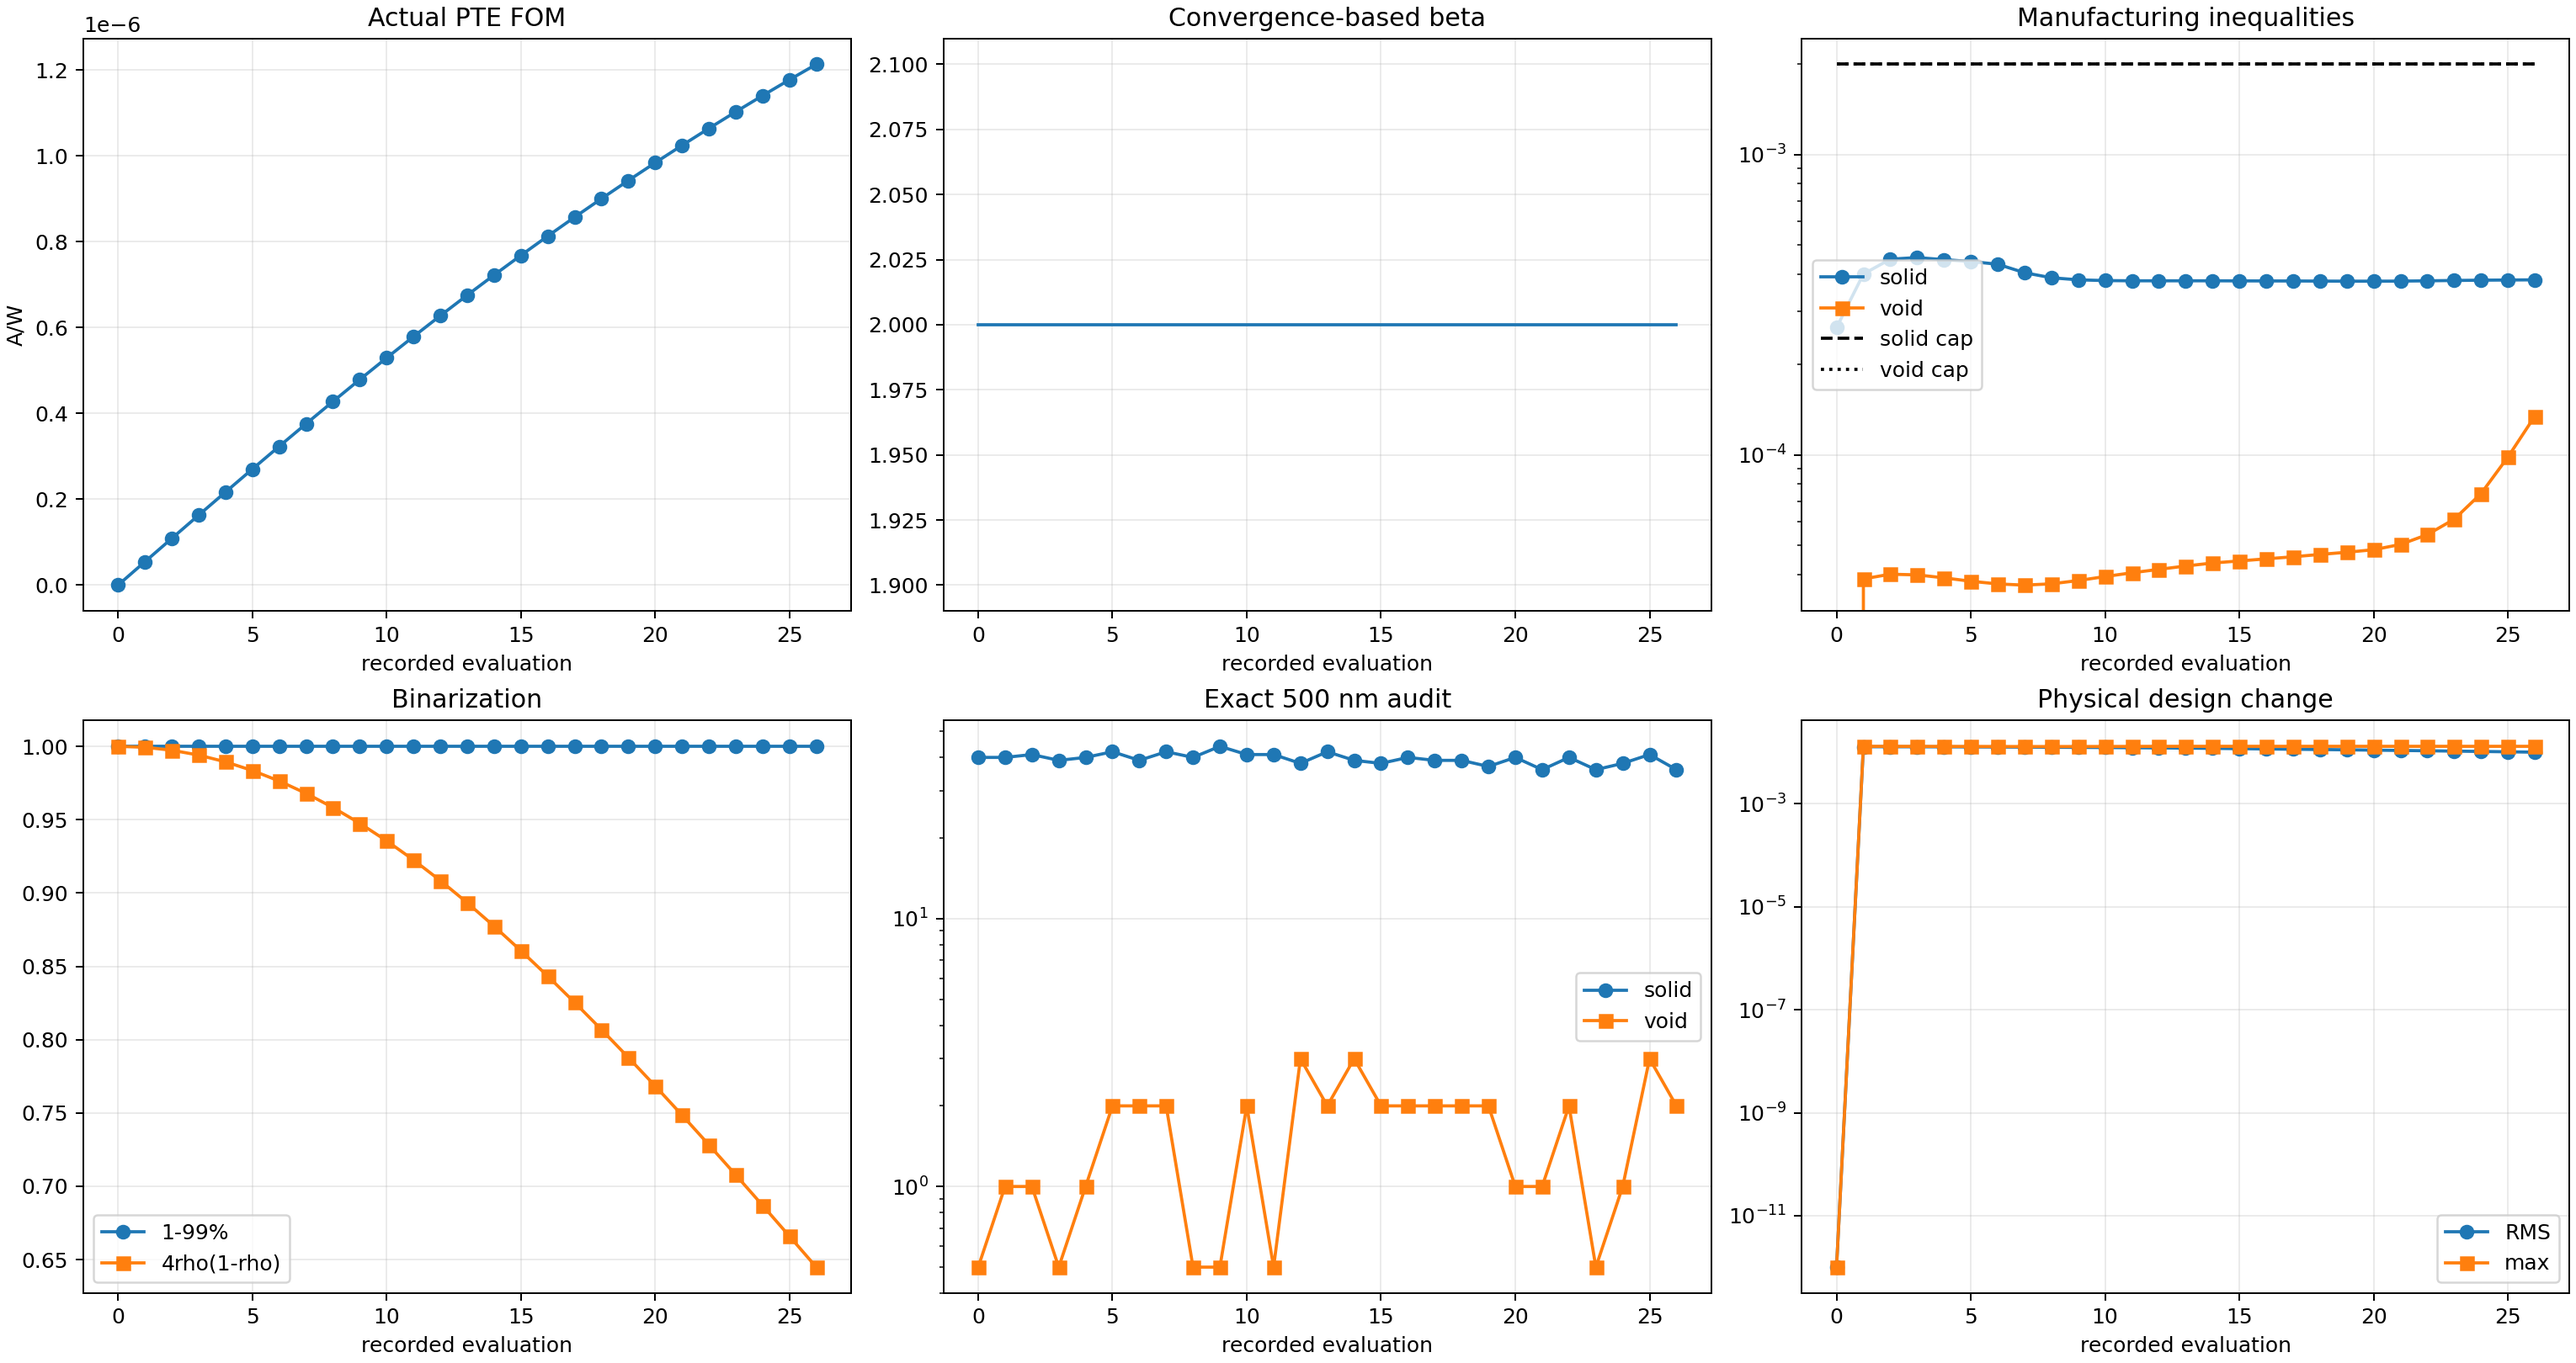
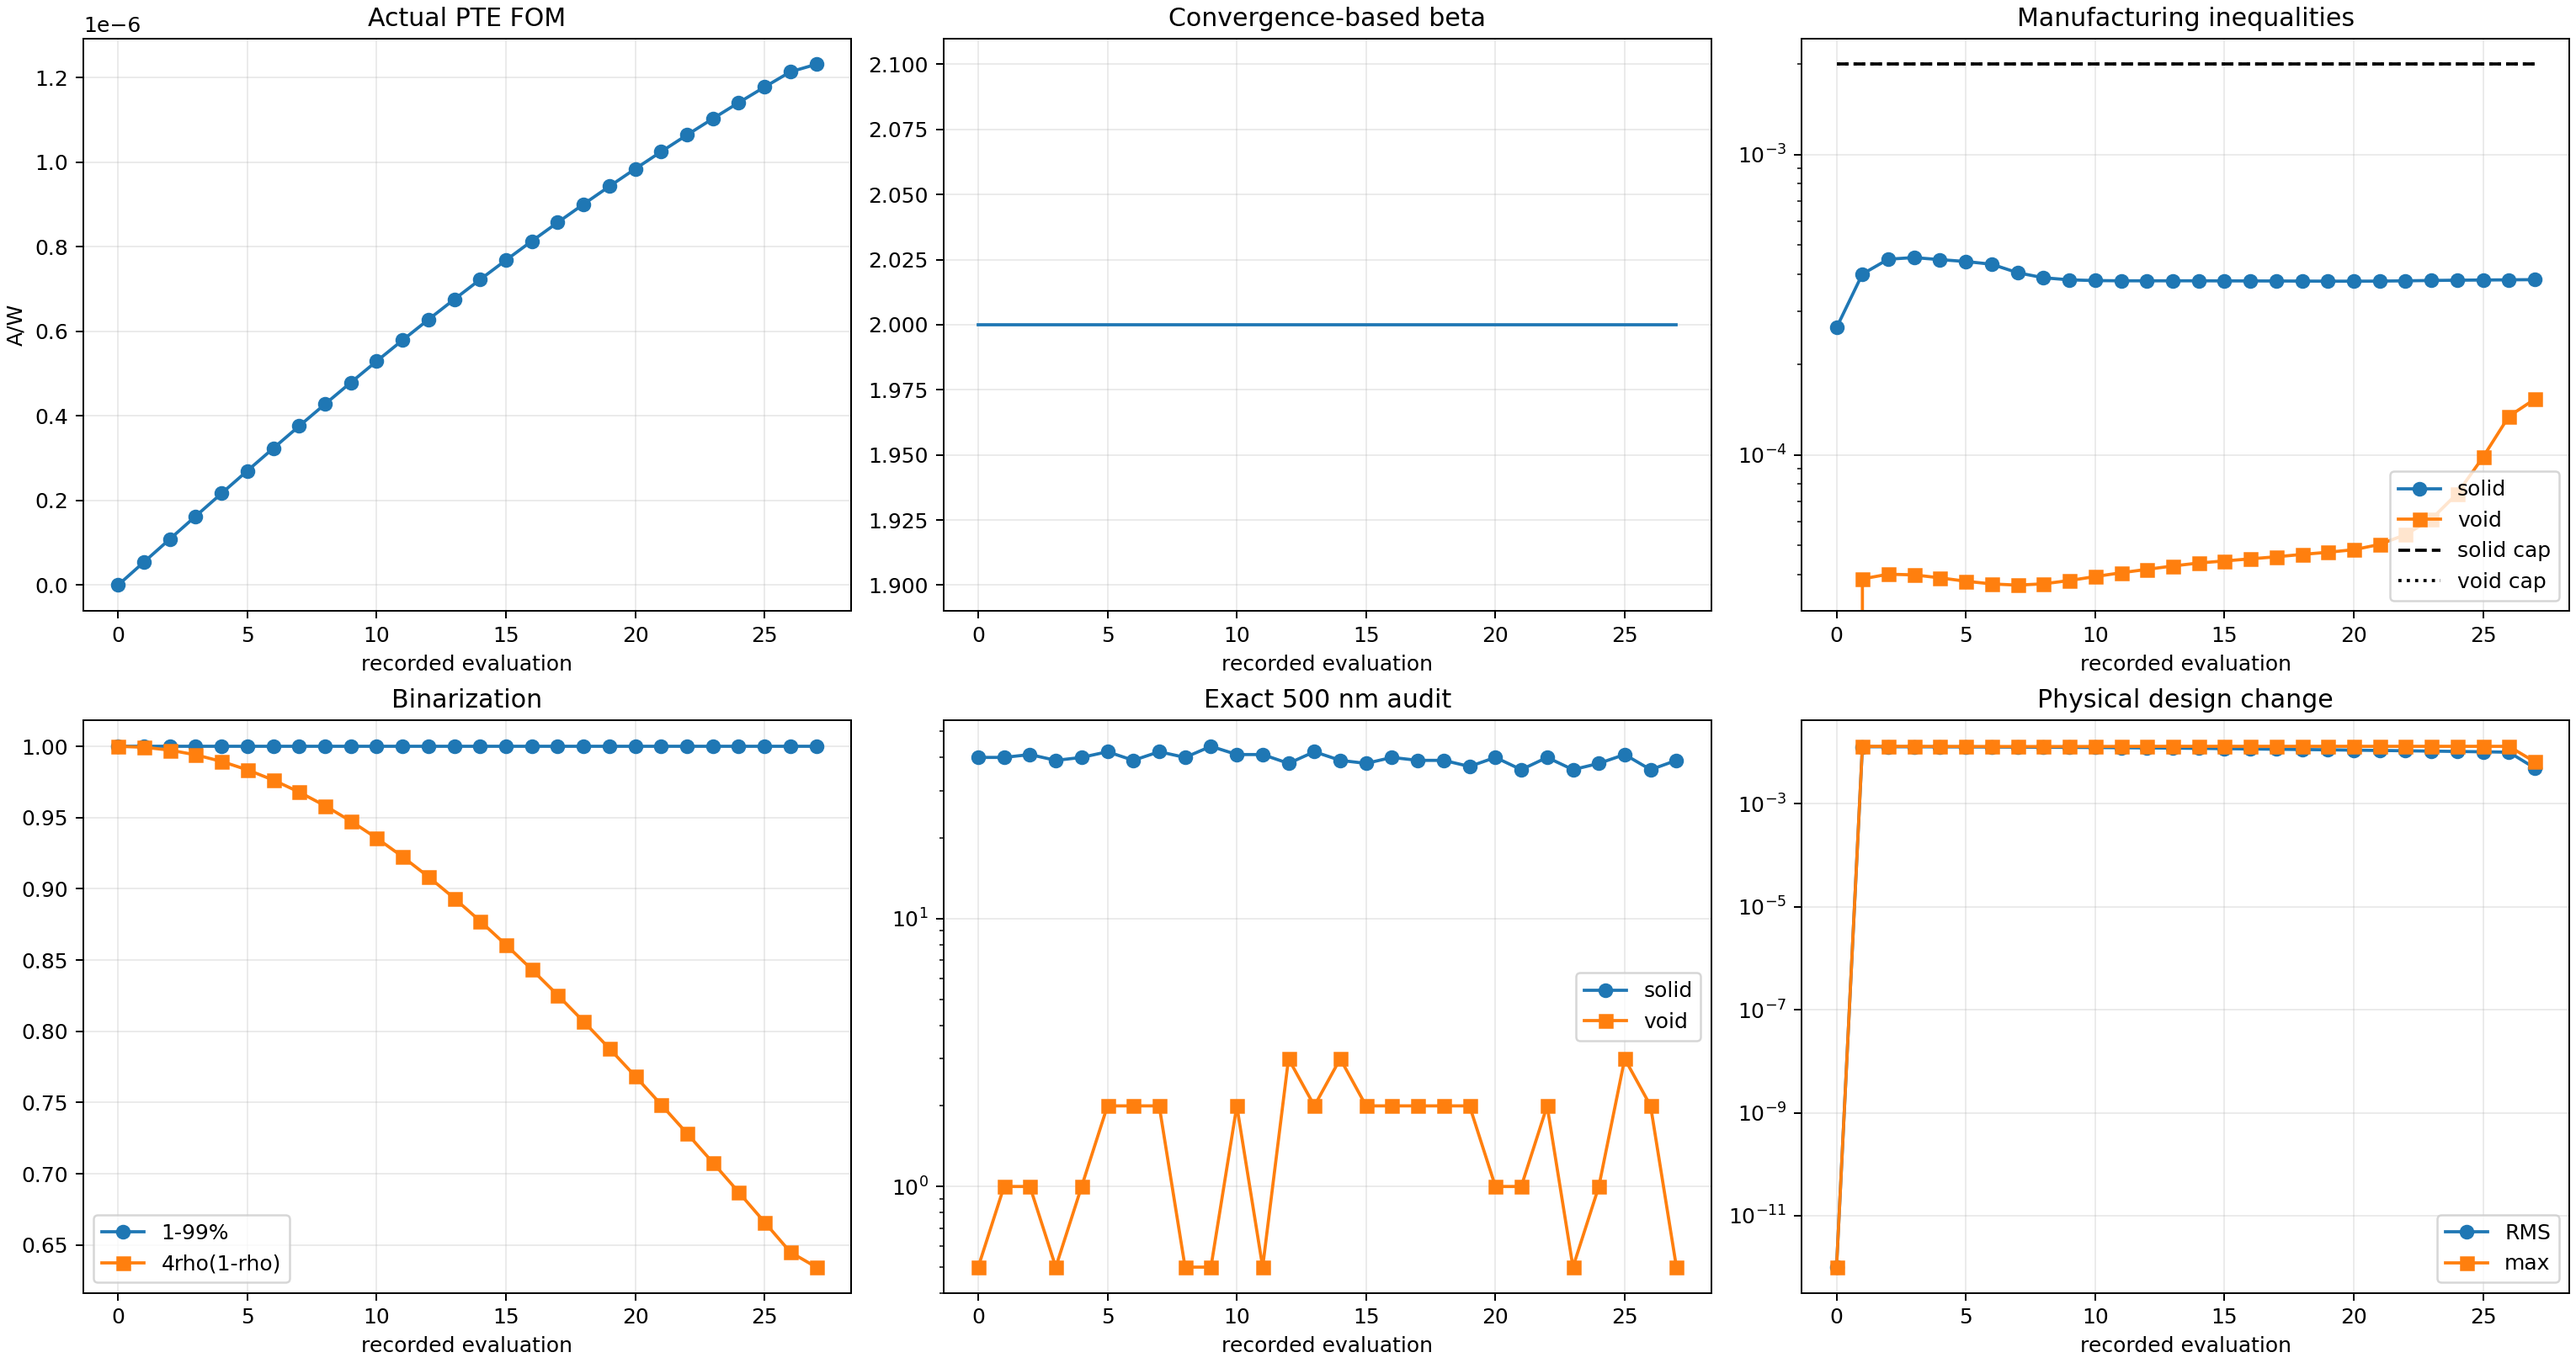
Record Run 005 run009_Ea_uniform_b002_s027_g027_accepted_mma

diff --git a/photothermal_pte/optimization_runs/run_009_uniform_Ea_from_scratch/results/OPTIMIZATION_REPORT.md b/photothermal_pte/optimization_runs/run_009_uniform_Ea_from_scratch/results/OPTIMIZATION_REPORT.md
@@ -2,12 +2,12 @@
 
 Status: `RUNNING_EXACT_UNIFORM_EA_OBJECTIVE_FIRST_OPTIMIZATION`
 
-Current stage: beta=2, accepted stage iteration=26, global iteration=26.
+Current stage: beta=2, accepted stage iteration=27, global iteration=27.
 
 Constraint contract: `soft_disk_opening_500nm_from_iteration_zero_v5`.
 
-Actual FOM: `1.213719831486e-06 A/W`. Fixed-cap solid/void constraints: `3.830533e-04` / `1.345351e-04` with caps `2.000000e-03` / `2.000000e-03`.
+Actual FOM: `1.231391525802e-06 A/W`. Fixed-cap solid/void constraints: `3.835882e-04` / `1.533543e-04` with caps `2.000000e-03` / `2.000000e-03`.
 
-Exact 500 nm bad cells: solid `36`, void `2`. Stage convergence: `False` (recent FOM/density changes have not plateaued).
+Exact 500 nm bad cells: solid `39`, void `0`. Stage convergence: `False` (recent FOM/density changes have not plateaued).
 
 Beta advances only after the stage FOM/density plateau. The run is not complete until the projected-binary and exact 500 nm gates pass and a fresh thresholded-binary GPU/CUDA evaluation succeeds.
